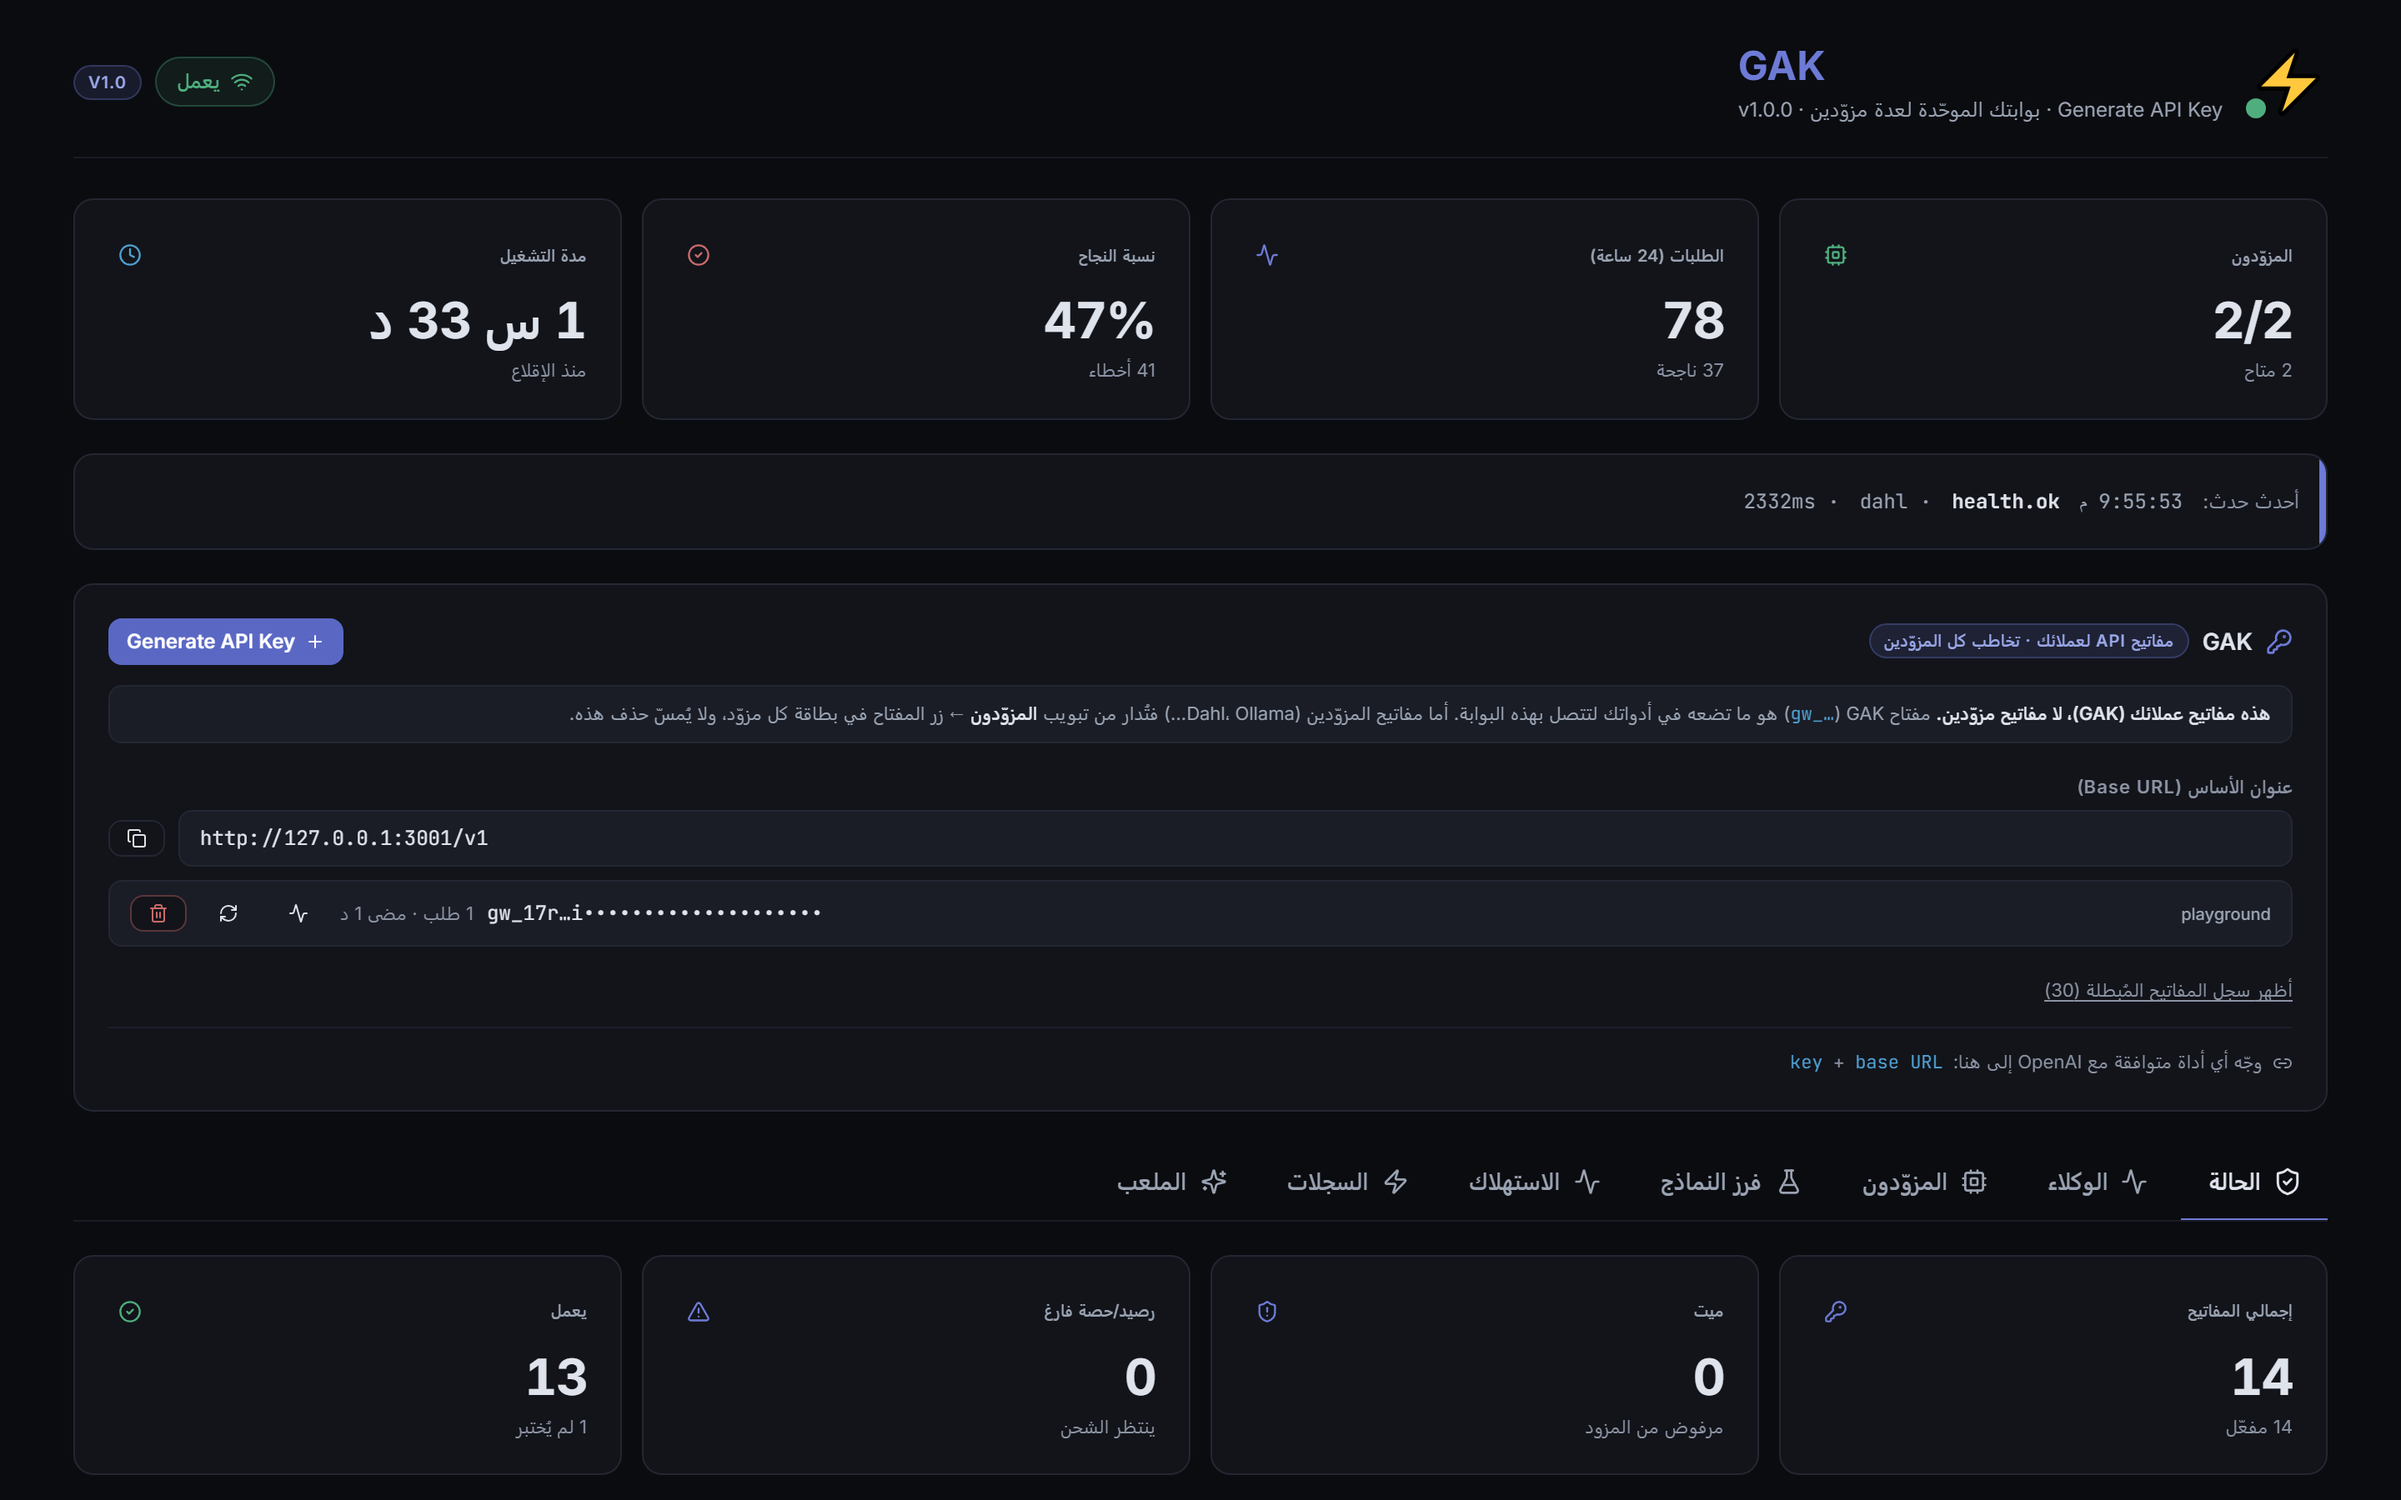
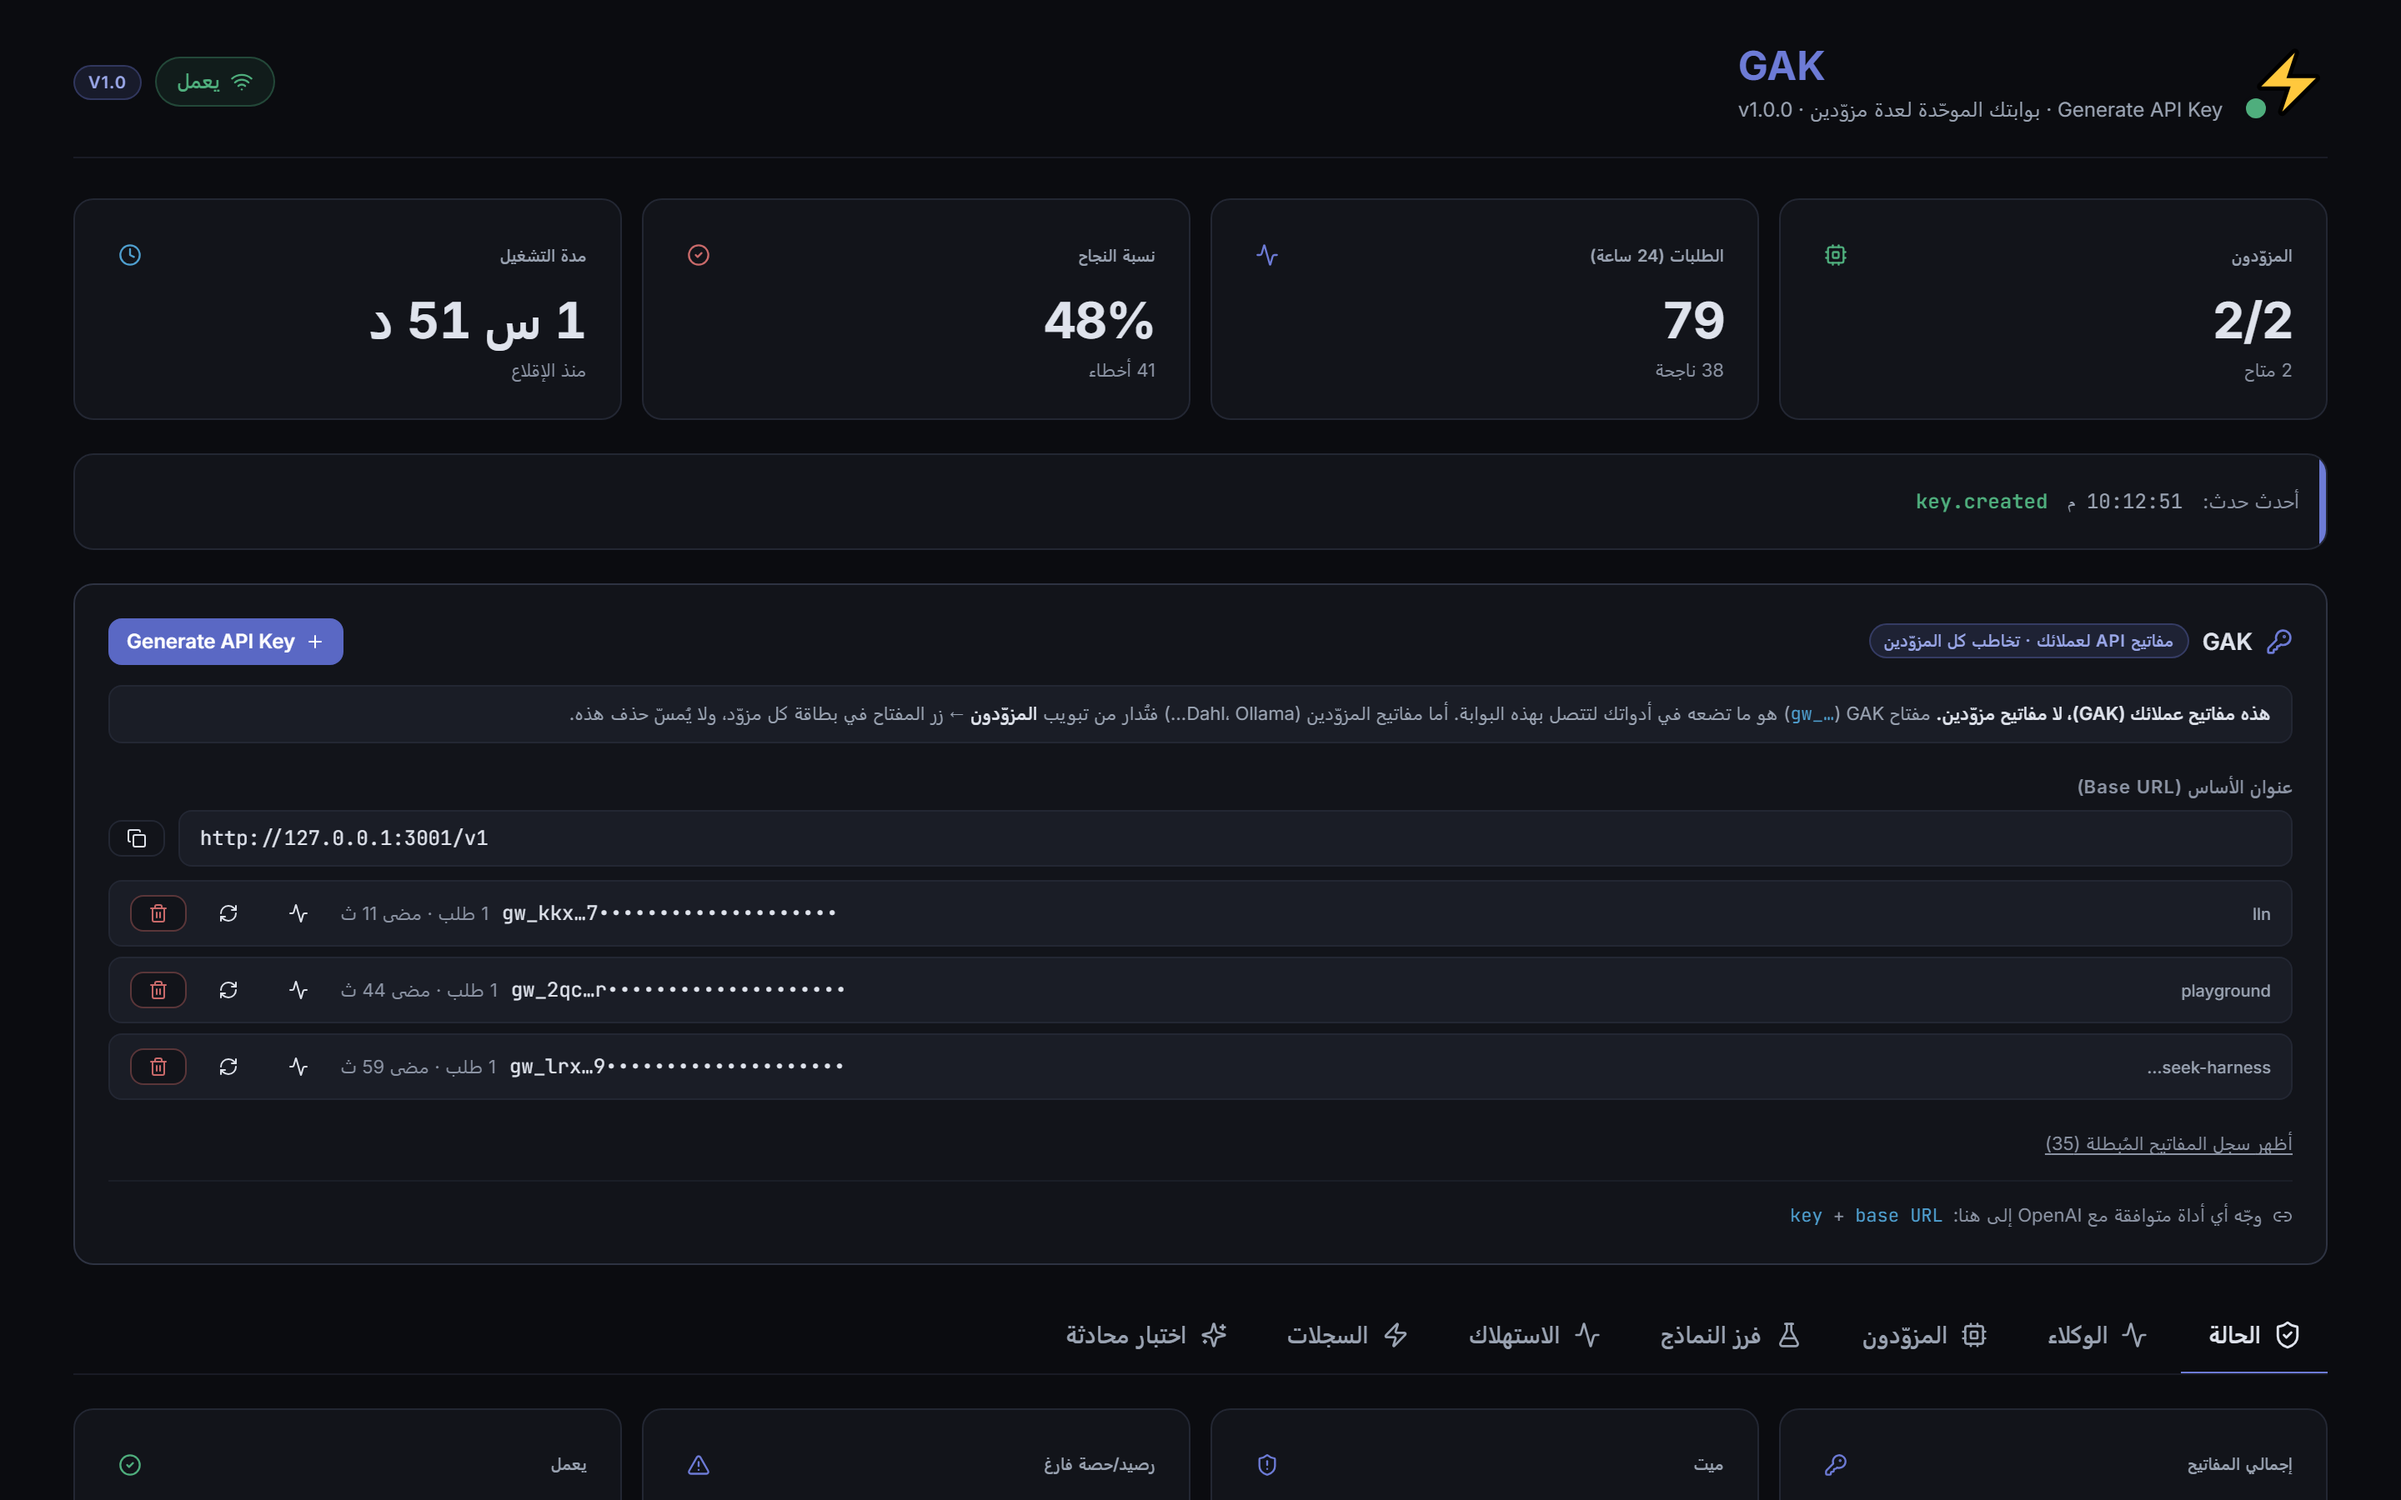
تسمية: تغيير «الملعب» إلى «اختبار محادثة»
- App.tsx: label التبويب
- PlaygroundTab.tsx: عنوان اللوحة
- api.ts + RUN-GUIDE.md: تنظيف الاسم القديم من التعليقات والوثائق
- إعادة التقاط tab-playground.png بالاسم الجديد

diff --git a/src/lib/api.ts b/src/lib/api.ts
@@ -141,7 +141,7 @@ export async function getUiKey(): Promise<string> {
 
 /**
  * يضمن وجود مفتاح واجهة: يعيد المخزَّن، وإلا ينشئ واحداً **مرة واحدة** ويحفظه.
- * يُستدعى فقط عند إجراء صريح من المستخدم (تشغيل في الملعب)، لا في تحميل الصفحة.
+ * يُستدعى فقط عند إجراء صريح من المستخدم (تشغيل في اختبار محادثة)، لا في تحميل الصفحة.
  */
 export async function ensureUiKey(): Promise<string> {
   const existing = await getUiKey();
@@ -444,7 +444,7 @@ export const api = {
     return req<{ rotations: RotationAudit[] }>(`/api/agents/audit${qs ? `?${qs}` : ''}`);
   },
 
-  // explicitKey: المفتاح الذي كتبه المستخدم في الملعب — يتقدّم على مفتاح الواجهة.
+  // explicitKey: المفتاح الذي كتبه المستخدم في اختبار محادثة — يتقدّم على مفتاح الواجهة.
   // بلا مفتاح صريح يُنشأ مفتاح الواجهة **مرة واحدة** (ensureUiKey) بقرار صريح من
   // المستخدم بضغط «أرسل»، لا بمجرد تحميل الصفحة.
   chat: async (body: any, onChunk?: (chunk: string) => void, explicitKey?: string) => {

diff --git a/src/App.tsx b/src/App.tsx
@@ -24,7 +24,7 @@ const TABS: { id: Tab; label: string; icon: any; description: string }[] = [
   { id: 'sort', label: 'فرز النماذج', icon: FlaskConical, description: 'اللي يشتغل مقابل المرفوض' },
   { id: 'usage', label: 'الاستهلاك', icon: Activity, description: 'استهلاك التوكنات' },
   { id: 'logs', label: 'السجلات', icon: Zap, description: 'أحدث الأحداث' },
-  { id: 'playground', label: 'الملعب', icon: Sparkles, description: 'اختبار المحادثة' }
+  { id: 'playground', label: 'اختبار محادثة', icon: Sparkles, description: 'اختبار المحادثة' }
 ];
 
 export default function App() {

diff --git a/src/components/PlaygroundTab.tsx b/src/components/PlaygroundTab.tsx
@@ -133,7 +133,7 @@ export function PlaygroundTab({ onToast }: { onToast?: (msg: string, type?: 'inf
       <div className="flex items-center justify-between flex-wrap gap-3">
         <div>
           <h2 className="text-lg font-semibold flex items-center gap-2">
-            <Sparkles className="w-5 h-5 text-primary" /> الملعب
+            <Sparkles className="w-5 h-5 text-primary" /> اختبار محادثة
             <span className="badge-primary badge">بثّ مباشر</span>
           </h2>
           <p className="text-xs text-ink-dim mt-0.5">اختبر أي مزوّد أو نموذج بردود متدفّقة مباشرة</p>

diff --git a/RUN-GUIDE.md b/RUN-GUIDE.md
@@ -144,7 +144,7 @@ http://جهازك-الشبكي:3001/?token=سرّ_قوي_هنا
 | `401 admin token required` | `ADMIN_TOKEN` مضبوط | افتح بـ `?token=...` مرة واحدة |
 | `Invalid API key` من `/v1` | تطلب `/v1` بلا مفتاح بوابة | أنشئ مفتاحاً بزر `Generate API Key` في شريط `GAK` أعلى اللوحة |
 | تغييرات الواجهة لا تظهر | تقدّم `dist` القديم | `npm run build` ثم أعد التشغيل |
-| «لا بيانات» في تبويب Usage | لا استخدام مسجّل بعد | استخدم اللعب (Playground) مرة |
+| «لا بيانات» في تبويب Usage | لا استخدام مسجّل بعد | استخدم اختبار المحادثة مرة |
 | مزود لا يعمل رغم وجود مفتاح | كان مطفأً يدوياً في `providers.yaml` | أعد تشغيل الخادم — يُفعَّل تلقائياً |
 
 ---
@@ -184,7 +184,7 @@ http://جهازك-الشبكي:3001/?token=سرّ_قوي_هنا
 | فرز النماذج | فحص كل نموذج بطلب حقيقي، وعزل الميت تلقائياً |
 | Usage | استهلاك الرموز لكل مزود (24 ساعة) |
 | Logs | بث مباشر للأحداث |
-| Playground | دردشة تجريبية مع أي نموذج |
+| اختبار محادثة | دردشة تجريبية مع أي نموذج |
 
 ### كبوابة API
 ```bash
